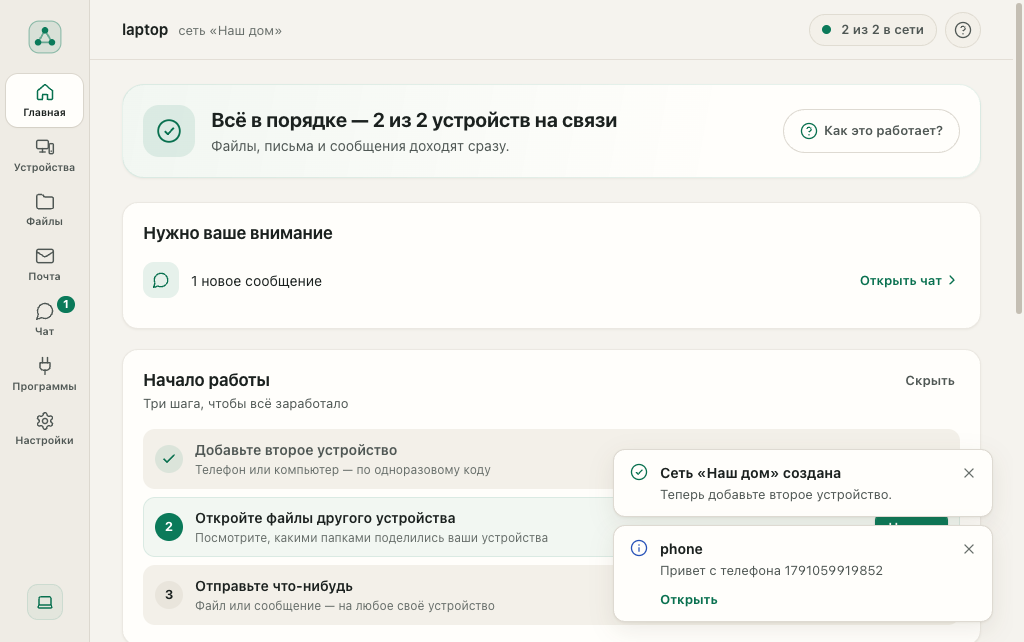
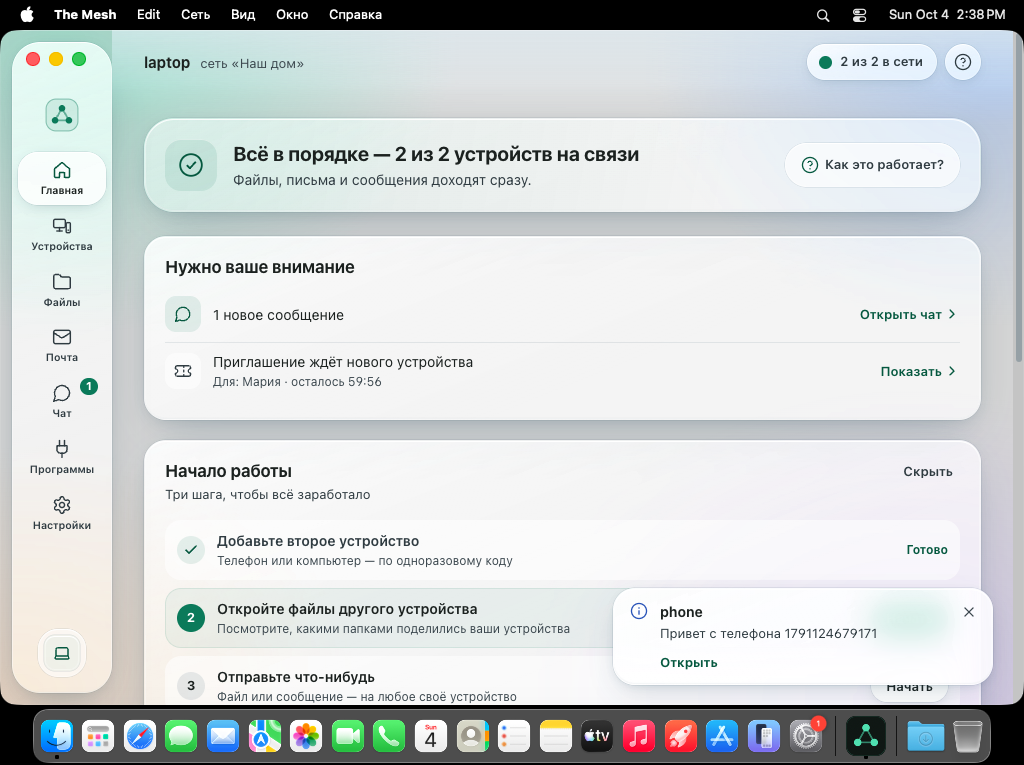
The Mesh for Mac: real-Mac screenshots in the docs, a scrolling check in the probe
The packaged app was photographed whole by the system on a macOS 26 machine of
CI (with "Reduce transparency" switched off and the local-network question
answered): real nodes, the glass window with its traffic lights, the notification of a
second device, the invitation with its sharp QR code. Those pictures replace the
old macOS picture in the README, and the probe's pictures (the dark theme and a
chat, over a drawn backdrop, made-up data, said so) join them in a new section
that also says what the look is not: no real lens, not seen by eye on a person's
own Mac, "like macOS 27" means "like macOS 26".

The probe now also scrolls the Settings page to five positions in both themes
(a raster that has not caught up shows as a pale block - one such block showed in a
picture of the gallery taken right after a route change) and counts the frames of a
scripted 3-second scroll with the glass skin and with the classic one on the same
machine.

Claude-Session: https://claude.ai/code/session_01Mw94G8T2Rni1hhsibydX5w

diff --git a/svoi/desktop/tools/mac-probe/main.js b/svoi/desktop/tools/mac-probe/main.js
@@ -120,6 +120,7 @@ async function main() {
     }
   }
   await gallery(display, wallpaper);
+  await scrolling(display);
   await capture(path.join(OUT, '99-whole-screen.png'));
   wallpaper.destroy();
 }
@@ -135,6 +136,51 @@ const SCREENS = [
   { name: 'invite', hash: '#/home?add=1', js: "(async () => { await new Promise((r) => setTimeout(r, 400)); const b = document.querySelector('[data-testid=invite-create]'); if (b) b.click(); })()" },
   { name: 'settings', hash: '#/settings/interface' },
 ];
+
+// Scrolling a long page: pictures at several positions (a raster that has not caught up shows as a pale block), and the
+// number of frames a scripted scroll gets in 3 s with each skin. A CI machine has no graphics card to speak of, so the
+// absolute numbers are low; what counts is glass against classic on the same machine.
+async function scrolling(display) {
+  for (const theme of ['light', 'dark']) {
+    nativeTheme.themeSource = theme;
+    const reduced = !!nativeTheme.prefersReducedTransparency;
+    const look = windowLook({ platform: 'darwin', env: {}, dark: theme === 'dark', reducedTransparency: reduced, version: app.getVersion() });
+    const win = new BrowserWindow({
+      width: 1000, height: 672, x: display.bounds.x + 12, y: display.bounds.y + 42, show: false, title: 'The Mesh probe',
+      ...look.options,
+      webPreferences: { partition: `probe-scroll-${theme}`, sandbox: true, contextIsolation: true, nodeIntegration: false, zoomFactor: 0.8 },
+    });
+    const wc = win.webContents;
+    wc.setUserAgent(`${wc.getUserAgent()} ${look.userAgentToken}`);
+    await loaded(win, `${URL_BASE}/#/home`);
+    await wc.executeJavaScript(`try { localStorage.setItem('themesh.lang', 'ru'); localStorage.setItem('themesh.theme', ${JSON.stringify(theme)}); } catch (e) {}`);
+    await loaded(win, `${URL_BASE}/?scroll=${Date.now()}#/settings`);
+    wc.setZoomFactor(0.8);
+    win.show();
+    win.focus();
+    app.focus({ steal: true });
+    await sleep(2500);
+    const b = win.getBounds();
+    const rect = { x: Math.max(0, b.x - 12), y: Math.max(0, b.y - 12), width: Math.min(display.bounds.width, b.width + 24), height: Math.min(display.bounds.height - 12, b.height + 36) };
+    for (let i = 0; i < 5; i++) {
+      await wc.executeJavaScript(`window.scrollTo(0, ${i * 520}); 0`);
+      await sleep(900);
+      await capture(path.join(OUT, `s-${theme}-${i}.png`), rect);
+    }
+    // the same page, scrolled by a script for 3 s, with each skin
+    for (const skin of ['glass', 'classic']) {
+      await wc.executeJavaScript(`localStorage.setItem('themesh.skin', ${JSON.stringify(skin)}); 0`);
+      await loaded(win, `${URL_BASE}/?perf=${skin}${Date.now()}#/devices`);
+      wc.setZoomFactor(0.8);
+      await sleep(1500);
+      const r = await wc.executeJavaScript(`new Promise((resolve) => { const el = document.scrollingElement; let frames = 0, dir = 1; const t0 = performance.now(); (function step(t) { frames++; el.scrollTop += 14 * dir; if (el.scrollTop + innerHeight >= el.scrollHeight - 2) dir = -1; if (el.scrollTop <= 0) dir = 1; if (t - t0 < 3000) requestAnimationFrame(step); else resolve({ skin: document.documentElement.dataset.skin, frames, ms: Math.round(performance.now() - t0), height: el.scrollHeight }); })(t0); })`).catch((e) => ({ error: e.message }));
+      log('scroll speed', theme, JSON.stringify(r), r.frames ? `${(r.frames / r.ms * 1000).toFixed(1)} frames/s` : '');
+    }
+    await wc.executeJavaScript(`localStorage.removeItem('themesh.skin'); 0`);
+    win.destroy();
+    await sleep(400);
+  }
+}
 
 async function gallery(display) {
   let n = 0;
